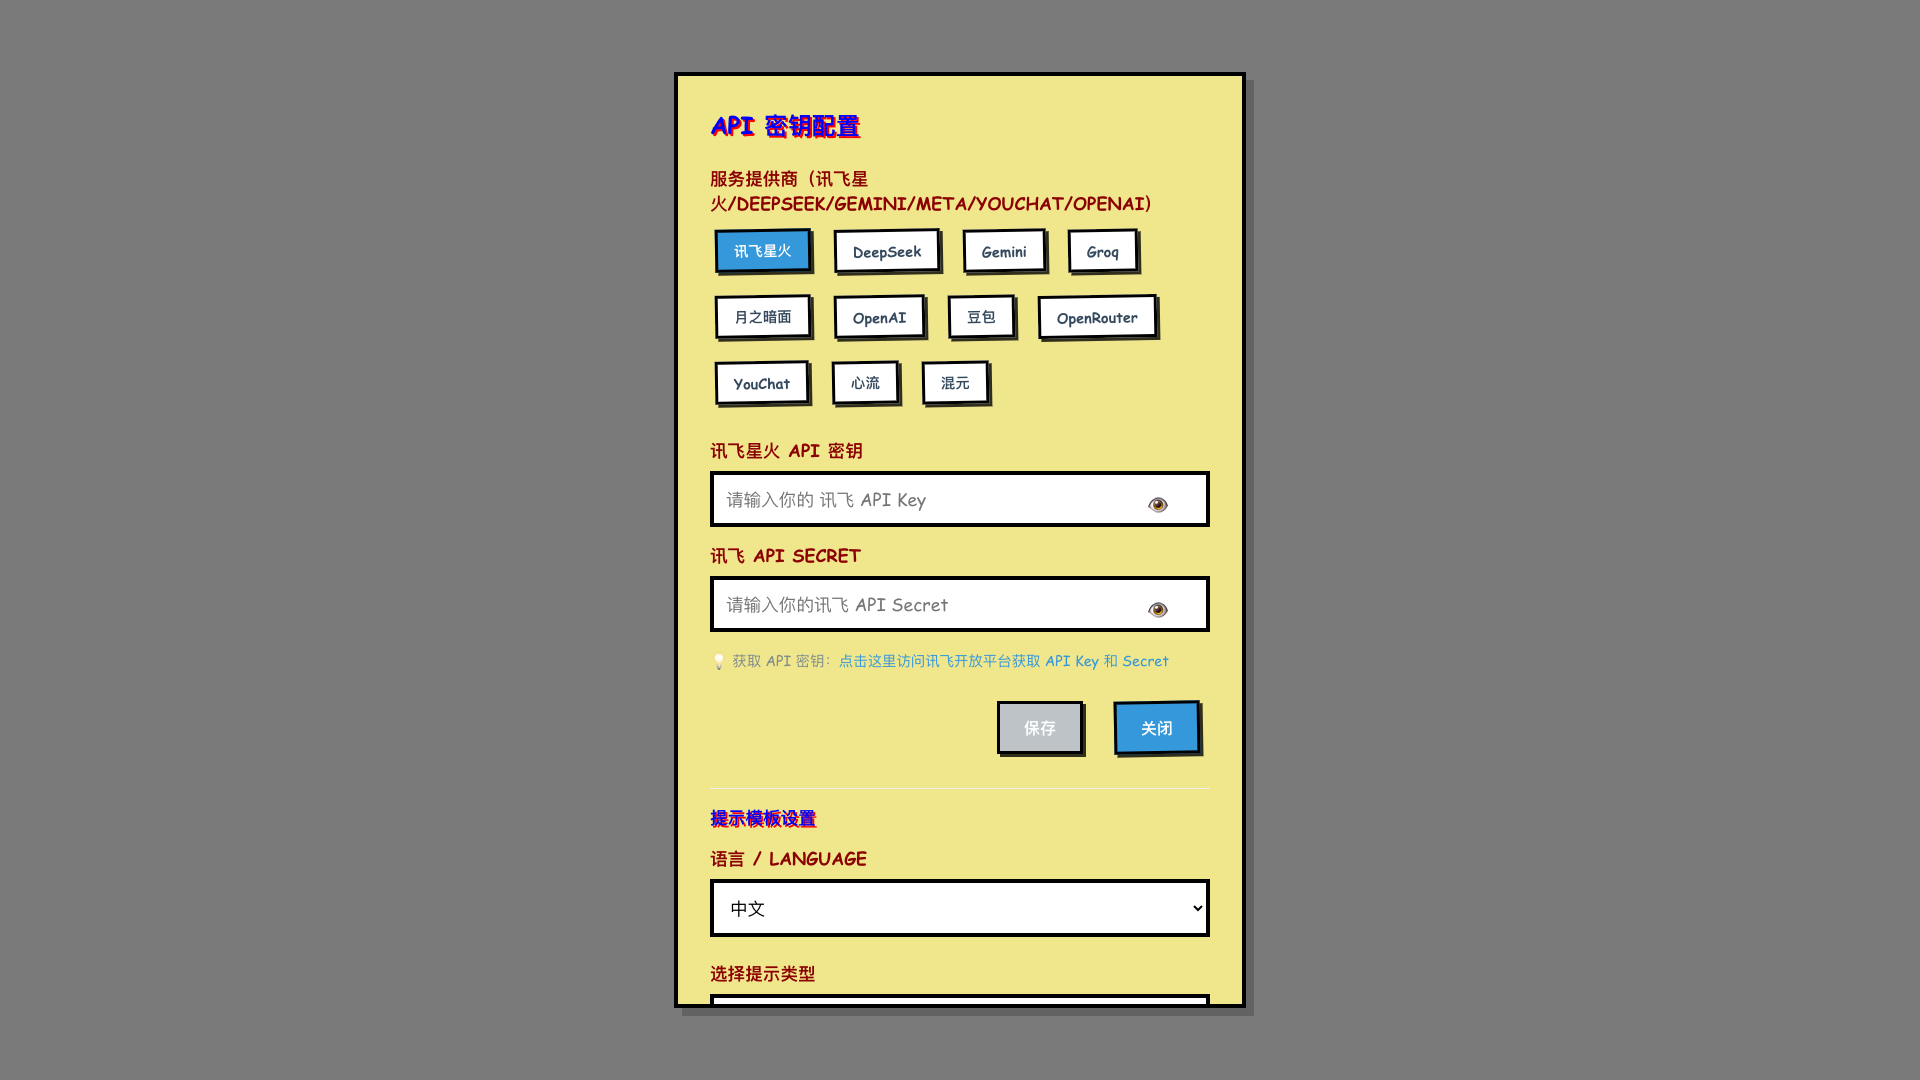
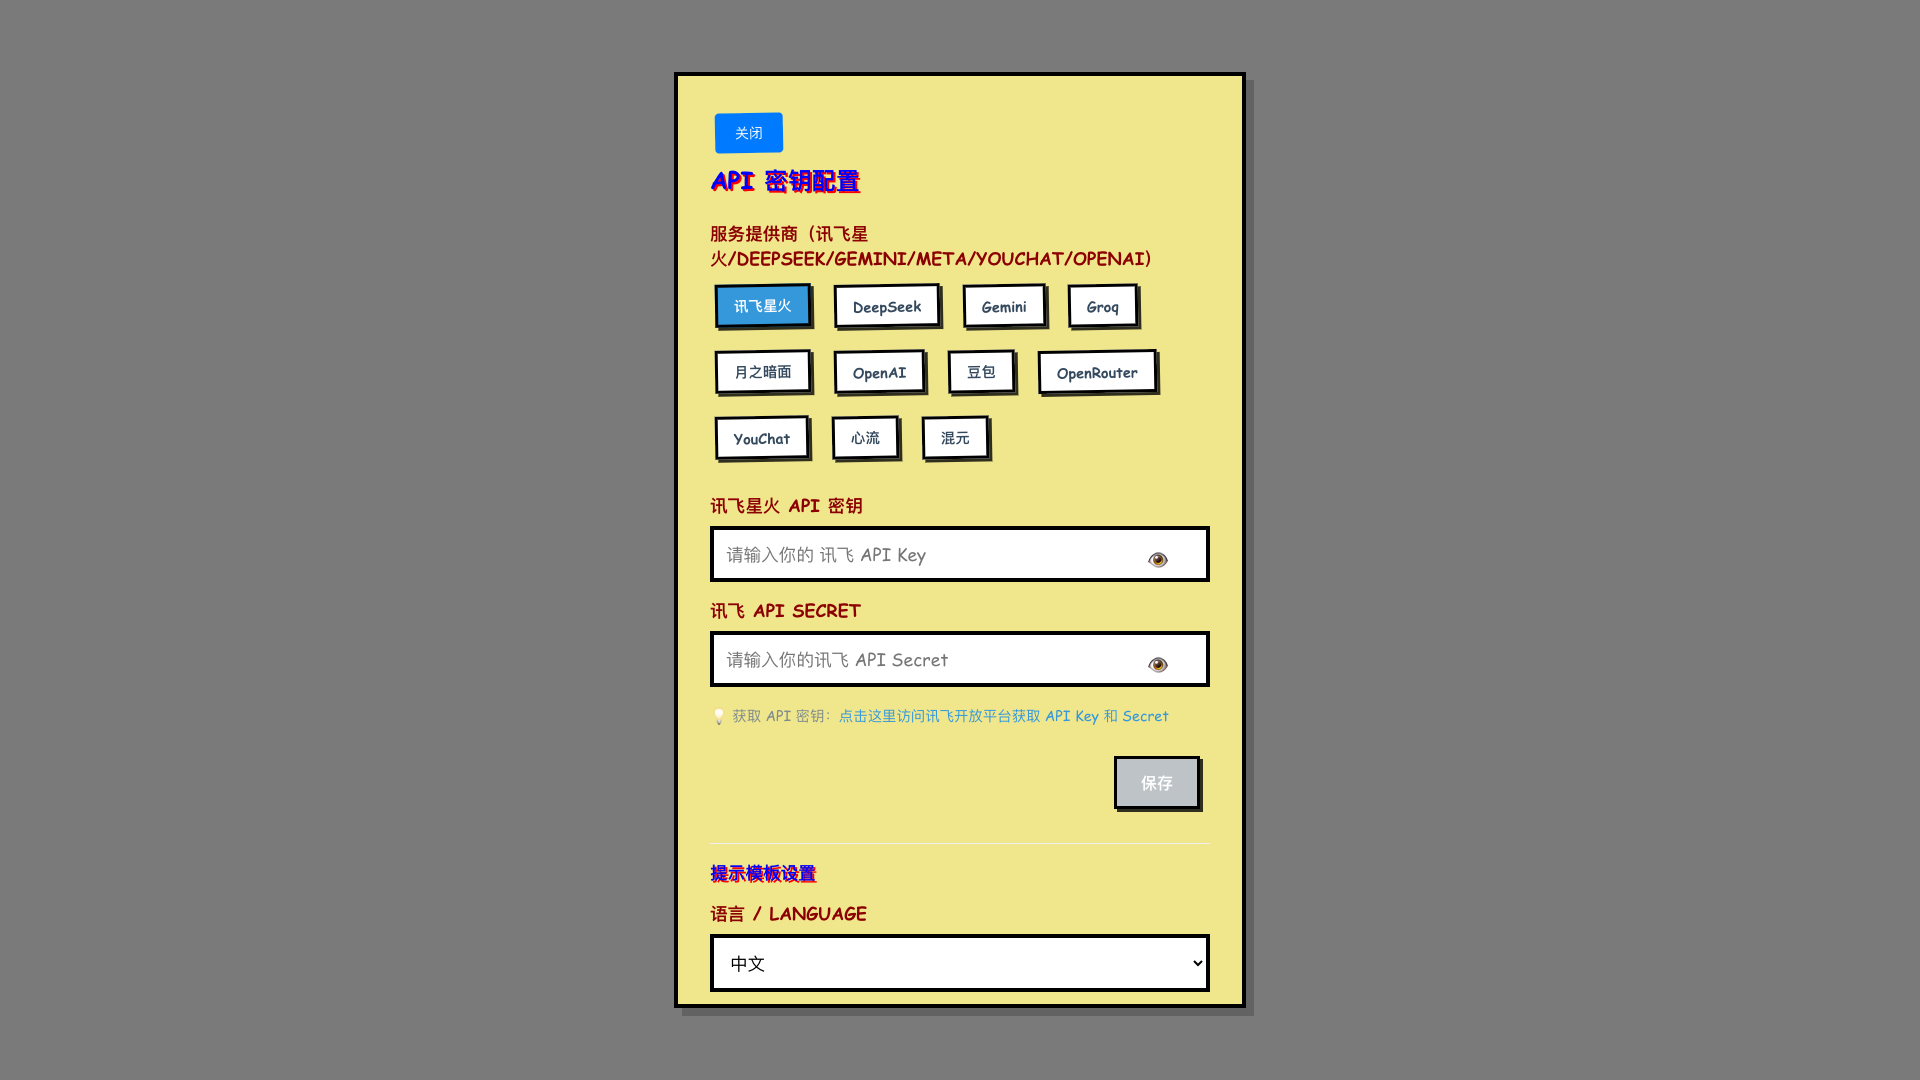
Bump version to 3.8.12

Changed region(s): [[0.3438, 0.0917, 0.6562, 0.7639], [0.3438, 0.7333, 0.6562, 0.9472]]

diff --git a/src/ApiKeyManager.tsx b/src/ApiKeyManager.tsx
@@ -1,7 +1,10 @@
 import React, { useState, useEffect } from "react";
 import "../index.css";
-import { getPromptsByLanguage, getLanguages } from "./prompts";
-import {
+import { 
+  getPromptsByLanguage, 
+  getLanguages
+} from "./prompts";
+import { 
   ServiceProvider,
   providerNamesConfig,
   getSelectedServiceProvider,
@@ -11,7 +14,7 @@ import {
   clearProviderCredentials,
   validateCredentials,
   getProviderApiKeyLink,
-  getProviderDisplayName,
+  getProviderDisplayName
 } from "../llm-core/src";
 import { HUNYUAN_MODELS } from "../llm-core/src/hunyuanService";
 
@@ -35,6 +38,7 @@ interface ApiKeyManagerProps {
   language?: "zh" | "en";
   compactTemplate?: boolean;
   styleVariant?: "default" | "comic1" | "comic2";
+  showCloseButton?: boolean;
 }
 
 const ApiKeyManager = ({
@@ -45,6 +49,7 @@ const ApiKeyManager = ({
   onPromptTypeChange,
   defaultPromptType,
   language = "zh",
+  showCloseButton = true,
   compactTemplate = false,
   styleVariant = "default",
 }) => {
@@ -183,6 +188,9 @@ const ApiKeyManager = ({
       }, 100);
     }
   };
+  const handleClose = () => {
+    onClose();
+  };
 
   const handleClear = () => {
     clearProviderCredentials(selectedProvider);
@@ -200,12 +208,7 @@ const ApiKeyManager = ({
 
   if (!isOpen) return null;
 
-  const enable_vpn =
-    selectedProvider === ServiceProvider.YOUCHAT ||
-    selectedProvider === ServiceProvider.GROQ ||
-    selectedProvider === ServiceProvider.GEMINI ||
-    selectedProvider === ServiceProvider.OPENAI ||
-    selectedProvider === ServiceProvider.IFLOW;
+  const enable_vpn = selectedProvider === ServiceProvider.YOUCHAT || selectedProvider === ServiceProvider.GROQ || selectedProvider === ServiceProvider.GEMINI || selectedProvider === ServiceProvider.OPENAI || selectedProvider === ServiceProvider.IFLOW;
   return (
     <div id="api-key-manager" onClick={onClose}>
       <div
@@ -214,6 +217,12 @@ const ApiKeyManager = ({
         }`}
         onClick={(e) => e.stopPropagation()}
       >
+        {showCloseButton && (
+          <button onClick={handleClose} className="api-key-manager-close-btn">
+              {currentLanguage === "zh" ? "关闭" : "Close"}
+          </button>
+        )}
+
         <h2 className="api-key-manager-title">
           {currentLanguage === "zh" ? "API 密钥配置" : "API Key Configuration"}
         </h2>
@@ -353,8 +362,7 @@ const ApiKeyManager = ({
                   onKeyPress={handleKeyPress}
                   placeholder={
                     currentLanguage === "zh"
-                      ? `请输入你的 ${
-                          selectedProvider === ServiceProvider.XUNFEI
+                      ? `请输入你的 ${selectedProvider === ServiceProvider.XUNFEI
                             ? "讯飞"
                             : selectedProvider === ServiceProvider.DEEPSEEK
                             ? "DeepSeek"
@@ -371,13 +379,10 @@ const ApiKeyManager = ({
                             : selectedProvider === ServiceProvider.IFLOW
                             ? "心流"
                             : "OpenAI"
-                        } ${
-                          selectedProvider === ServiceProvider.XUNFEI
+                        } ${selectedProvider === ServiceProvider.XUNFEI
                             ? "API Key"
-                            : "API 密钥"
-                        }`
-                      : `Please enter your ${
-                          selectedProvider === ServiceProvider.XUNFEI
+                            : "API 密钥"}`
+                      : `Please enter your ${selectedProvider === ServiceProvider.XUNFEI
                             ? "Xunfei"
                             : selectedProvider === ServiceProvider.DEEPSEEK
                             ? "DeepSeek"
@@ -467,20 +472,14 @@ const ApiKeyManager = ({
                   rel="noopener noreferrer"
                 >
                   {currentLanguage === "zh"
-                    ? `点击这里访问 ${
-                        providerNamesConfig[selectedProvider]?.zh ||
-                        providerNamesConfig[selectedProvider]?.en
-                      } 平台`
-                    : `Click here to visit ${
-                        providerNamesConfig[selectedProvider]?.en ||
-                        providerNamesConfig[selectedProvider]?.zh
-                      } platform`}
+                    ? `点击这里访问 ${providerNamesConfig[selectedProvider]?.zh || providerNamesConfig[selectedProvider]?.en} 平台`
+                    : `Click here to visit ${providerNamesConfig[selectedProvider]?.en || providerNamesConfig[selectedProvider]?.zh} platform`}
                 </a>
               )}
             </p>
           </>
         )}
-        {enable_vpn && (
+        {(enable_vpn) && (
           <div className="api-key-manager-input-group">
             <label htmlFor="apiKey" className="api-key-manager-label">
               {currentLanguage === "zh" ? "(需代理)" : ""}
@@ -541,79 +540,81 @@ const ApiKeyManager = ({
           >
             {currentLanguage === "zh" ? "保存" : "Save"}
           </button>
-          <button onClick={onClose} className="api-key-manager-save-btn api-key-manager-close-btn">
-            {currentLanguage === "zh" ? "关闭" : "Close"}
-          </button>
         </div>
 
         {!compactTemplate && (
-          <div className="api-key-manager-template-section">
-            <h3 className="api-key-manager-template-title">
-              {currentLanguage === "zh"
-                ? "提示模板设置"
-                : "Prompt Template Settings"}
-            </h3>
-            <div className="api-key-manager-section">
-              <label className="api-key-manager-label">
+            <div className="api-key-manager-template-section">
+              <h3 className="api-key-manager-template-title">
                 {currentLanguage === "zh"
-                  ? "语言 / Language"
-                  : "Language / 语言"}
-              </label>
+                  ? "提示模板设置"
+                  : "Prompt Template Settings"}
+              </h3>
+              <div className="api-key-manager-section">
+                <label className="api-key-manager-label">
+                  {currentLanguage === "zh"
+                    ? "语言 / Language"
+                    : "Language / 语言"}
+                </label>
+                <select
+                  value={currentLanguage}
+                  onChange={(e) =>
+                    handleLanguageChange(e.target.value as "zh" | "en")
+                  }
+                  className="api-key-manager-select"
+                >
+                  <option value="zh">中文</option>
+                  <option value="en">English</option>
+                </select>
+              </div>
+              <div>
+                <label className="api-key-manager-label">
+                  {currentLanguage === "zh"
+                    ? "选择提示类型"
+                    : "Select Prompt Type"}
+                </label>
+              </div>
+
               <select
-                value={currentLanguage}
-                onChange={(e) =>
-                  handleLanguageChange(e.target.value as "zh" | "en")
-                }
+                value={selectedPromptType}
+                onChange={handlePromptTypeChange}
                 className="api-key-manager-select"
               >
-                <option value="zh">中文</option>
-                <option value="en">English</option>
+                {availablePrompts.map((type) => (
+                  <option key={type} value={type}>
+                    {type}
+                  </option>
+                ))}
               </select>
             </div>
-            <div>
-              <label className="api-key-manager-label">
-                {currentLanguage === "zh"
-                  ? "选择提示类型"
-                  : "Select Prompt Type"}
-              </label>
-            </div>
-
-            <select
-              value={selectedPromptType}
-              onChange={handlePromptTypeChange}
-              className="api-key-manager-select"
-            >
-              {availablePrompts.map((type) => (
-                <option key={type} value={type}>
-                  {type}
-                </option>
-              ))}
-            </select>
-          </div>
-        )}
+          )}
 
         {isValid && (
-          <div className="api-key-manager-success-message">
-            ✅{selectedProvider === ServiceProvider.DEEPSEEK && "DeepSeek"}
-            {selectedProvider === ServiceProvider.GEMINI && "Gemini"}
-            {selectedProvider === ServiceProvider.GROQ && "Groq"}
-            {selectedProvider === ServiceProvider.YOUCHAT && "YouChat"}
-            {selectedProvider === ServiceProvider.OPENAI && "OpenAI"}
-            {selectedProvider === ServiceProvider.DOUBAO && "豆包"}
-            {selectedProvider === ServiceProvider.OPENROUTER && "OpenRouter"}
-            {selectedProvider === ServiceProvider.MOONSHOT &&
-              (currentLanguage === "zh" ? "月之暗面" : "Moonshot")}
-            {selectedProvider === ServiceProvider.IFLOW &&
-              (currentLanguage === "zh" ? "心流" : "iFlow")}
-            {selectedProvider === ServiceProvider.XUNFEI &&
-              (currentLanguage === "zh" ? "讯飞" : "Xunfei")}
-            {selectedProvider === ServiceProvider.HUNYUAN &&
-              (currentLanguage === "zh" ? "混元" : "Hunyuan")}{" "}
-            {currentLanguage === "zh"
-              ? "API 密钥已配置，应用可以正常使用"
-              : "API key has been configured, the application can be used normally"}
-          </div>
-        )}
+            <div className="api-key-manager-success-message">
+              ✅
+              {selectedProvider === ServiceProvider.DEEPSEEK && "DeepSeek"}
+              {selectedProvider === ServiceProvider.GEMINI && "Gemini"}
+              {selectedProvider === ServiceProvider.GROQ && "Groq"}
+              {selectedProvider === ServiceProvider.YOUCHAT && "YouChat"}
+              {selectedProvider === ServiceProvider.OPENAI && "OpenAI"}
+              {selectedProvider === ServiceProvider.DOUBAO && "豆包"}
+              {selectedProvider === ServiceProvider.OPENROUTER && "OpenRouter"}
+              {selectedProvider === ServiceProvider.MOONSHOT && 
+                (currentLanguage === "zh" ? "月之暗面" : "Moonshot")
+              }
+              {selectedProvider === ServiceProvider.IFLOW && 
+                (currentLanguage === "zh" ? "心流" : "iFlow")
+              }
+              {selectedProvider === ServiceProvider.XUNFEI && 
+                (currentLanguage === "zh" ? "讯飞" : "Xunfei")
+              }
+              {selectedProvider === ServiceProvider.HUNYUAN && 
+                (currentLanguage === "zh" ? "混元" : "Hunyuan")
+              }
+              {" "}{currentLanguage === "zh" 
+                ? "API 密钥已配置，应用可以正常使用" 
+                : "API key has been configured, the application can be used normally"}
+            </div>
+          )}
       </div>
     </div>
   );

diff --git a/demo/src/App.tsx b/demo/src/App.tsx
@@ -328,6 +328,7 @@ function App() {
         </button>
         <ApiKeyManager
                   onSave={() => {}}
+                  showCloseButton={false}
                   onClose={() => setIsApiKeyManagerOpen(false)}
                   onNavigateToWiki={() => {}}
                   onPromptTypeChange={() => {}}
